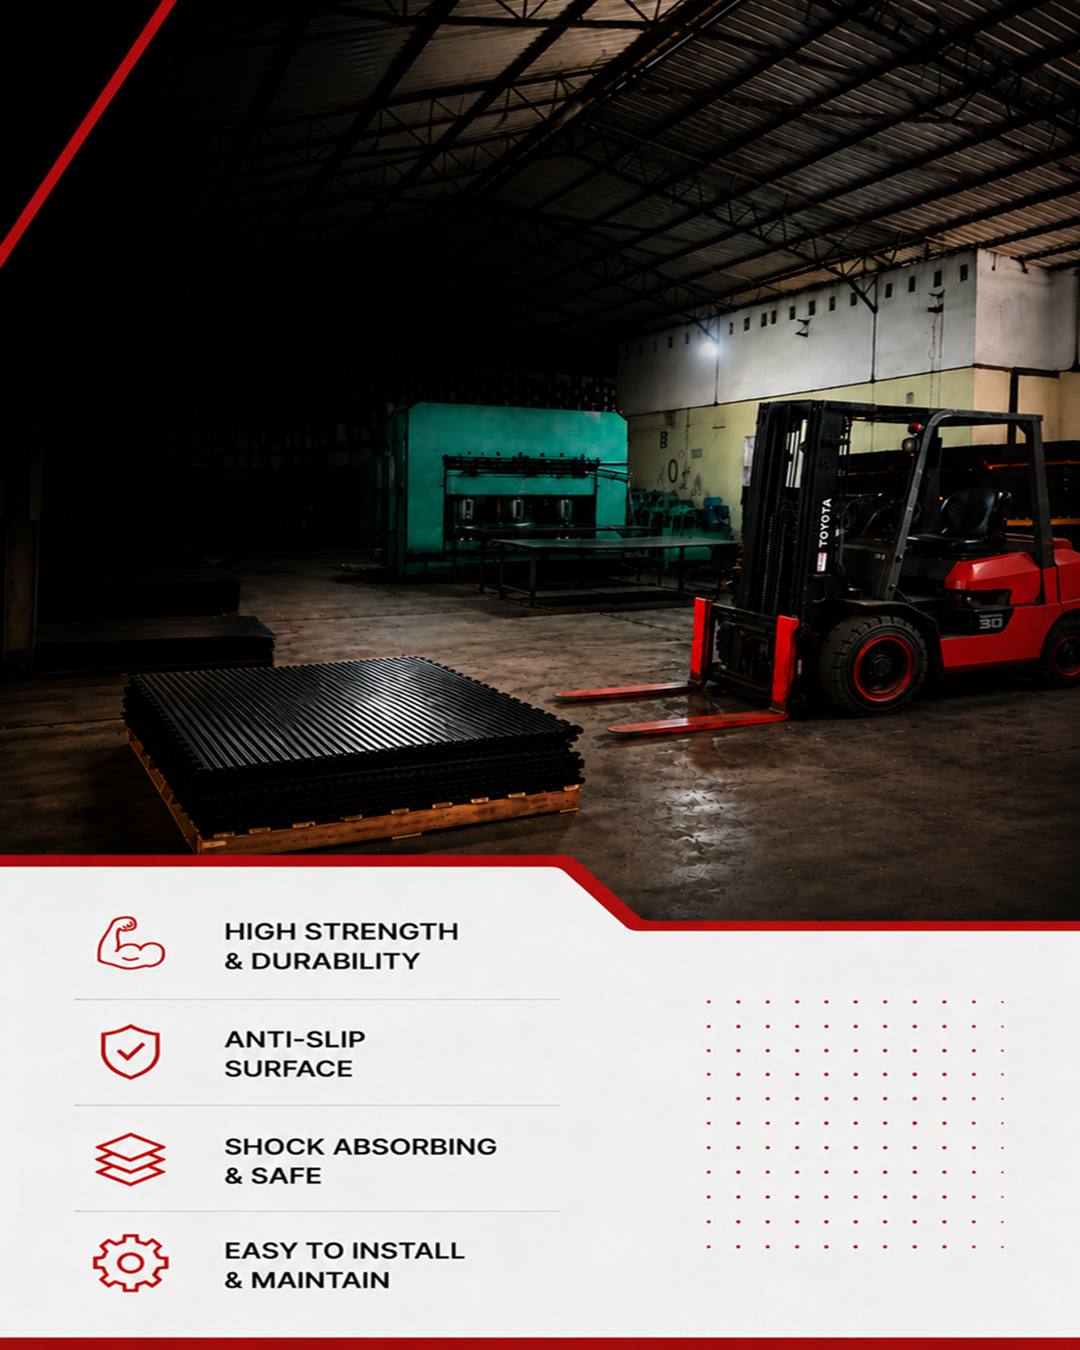
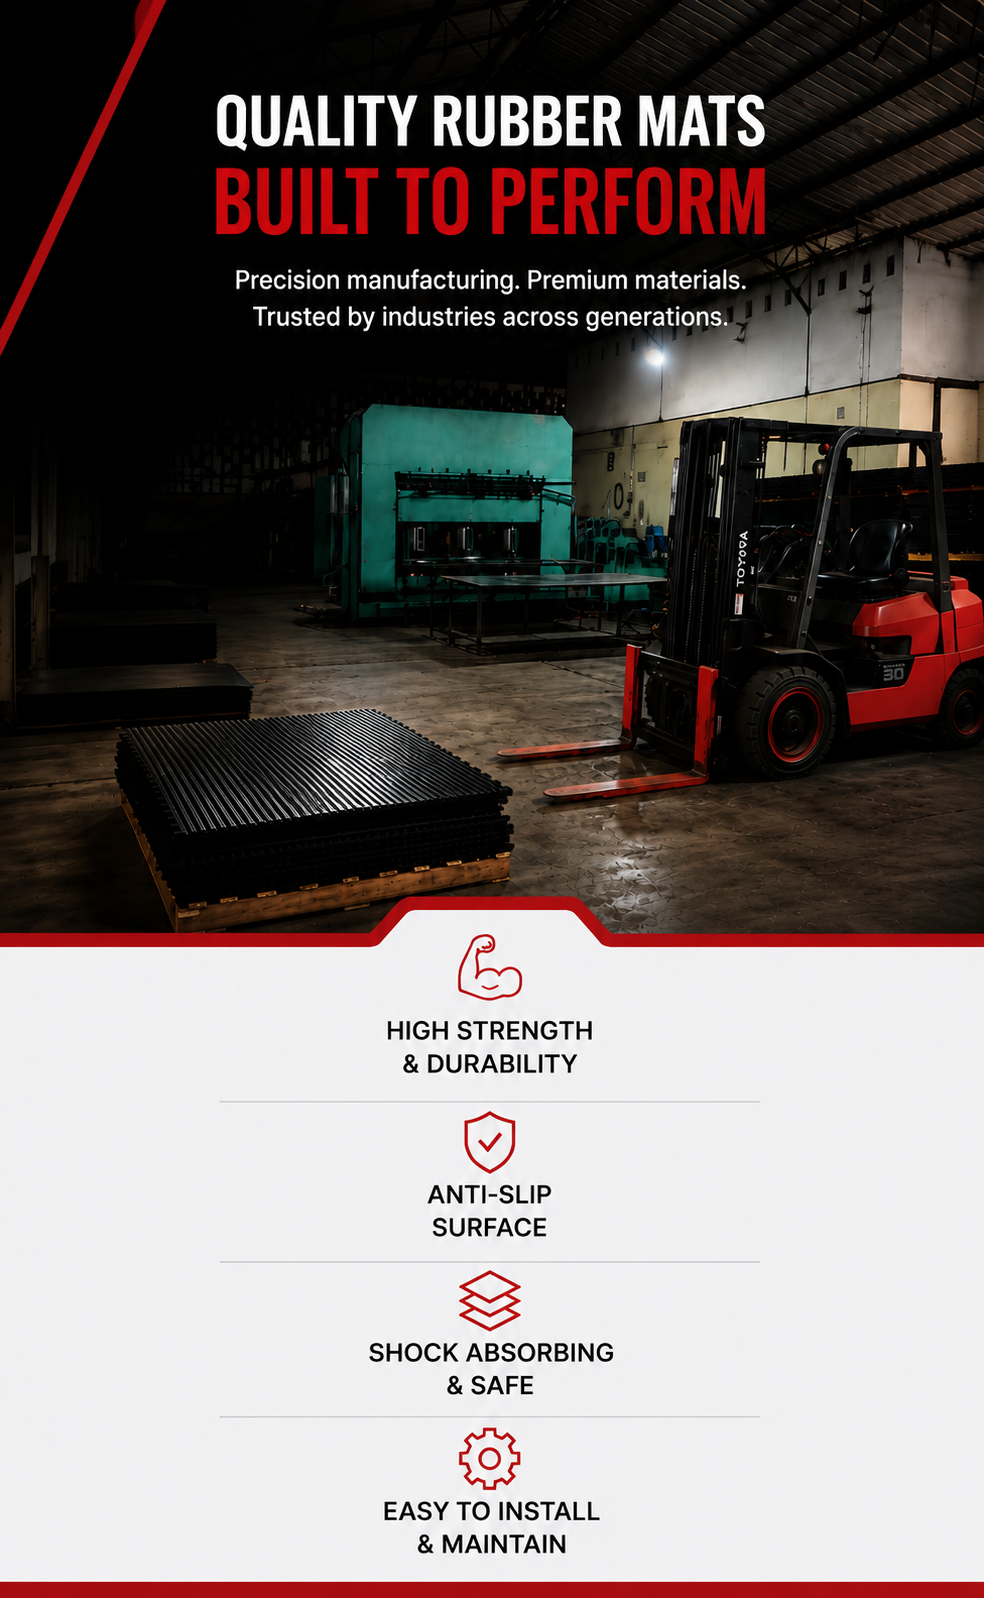
more small changes

diff --git a/zionrubber/evaformsblog.html b/zionrubber/evaformsblog.html
@@ -77,9 +77,10 @@
 
     <!-- Hero Section -->
     <section id="hero" class="hero section dark-background">
-    <div class="">
-      <img src="bloglanding.png" alt="" data-aos="fade-in">
-
+        <div class="">
+              <source media="(max-width:768px)" srcset="assets\img\main\blogmobile.png">
+         <img src="assets\img\main\bloglandin.jpeg" alt="" data-aos="fade-in"></picture>
+    </div>
       <div class="container">
         <div class="row">
           <div class="col-lg-8 d-flex flex-column align-items-center align-items-lg-start">

diff --git a/zionrubber/whichmatforgym.html b/zionrubber/whichmatforgym.html
@@ -77,8 +77,10 @@
 
     <!-- Hero Section -->
     <section id="hero" class="hero section dark-background">
-    <div class="">
-      <img src="bloglanding.png" alt="" data-aos="fade-in">
+        <div class="">
+              <source media="(max-width:768px)" srcset="assets\img\main\blogmobile.png">
+         <img src="assets\img\main\bloglandin.jpeg" alt="" data-aos="fade-in"></picture>
+    </div>
 
       <div class="container">
         <div class="row">

diff --git a/zionrubber/natvsyntheicrubber.html b/zionrubber/natvsyntheicrubber.html
@@ -78,7 +78,9 @@
     <!-- Hero Section -->
     <section id="hero" class="hero section dark-background">
     <div class="">
-      <img src="bloglanding.png" alt="" data-aos="fade-in">
+              <source media="(max-width:768px)" srcset="assets\img\main\blogmobile.png">
+         <img src="assets\img\main\bloglandin.jpeg" alt="" data-aos="fade-in"></picture>
+    </div>
 
       <div class="container">
         <div class="row">